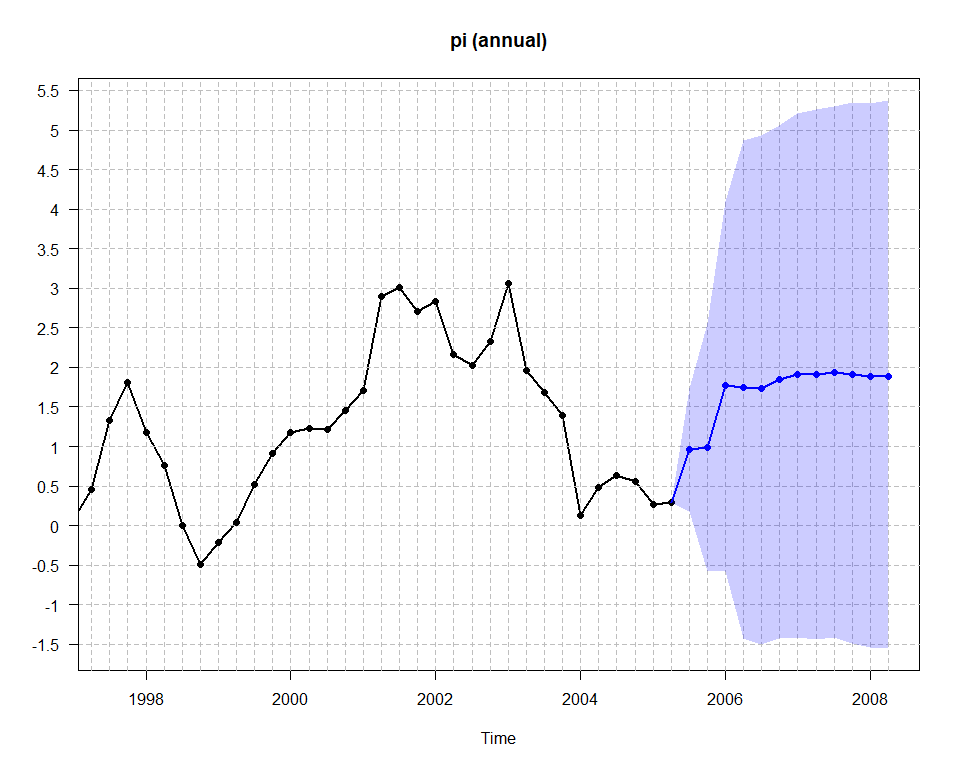
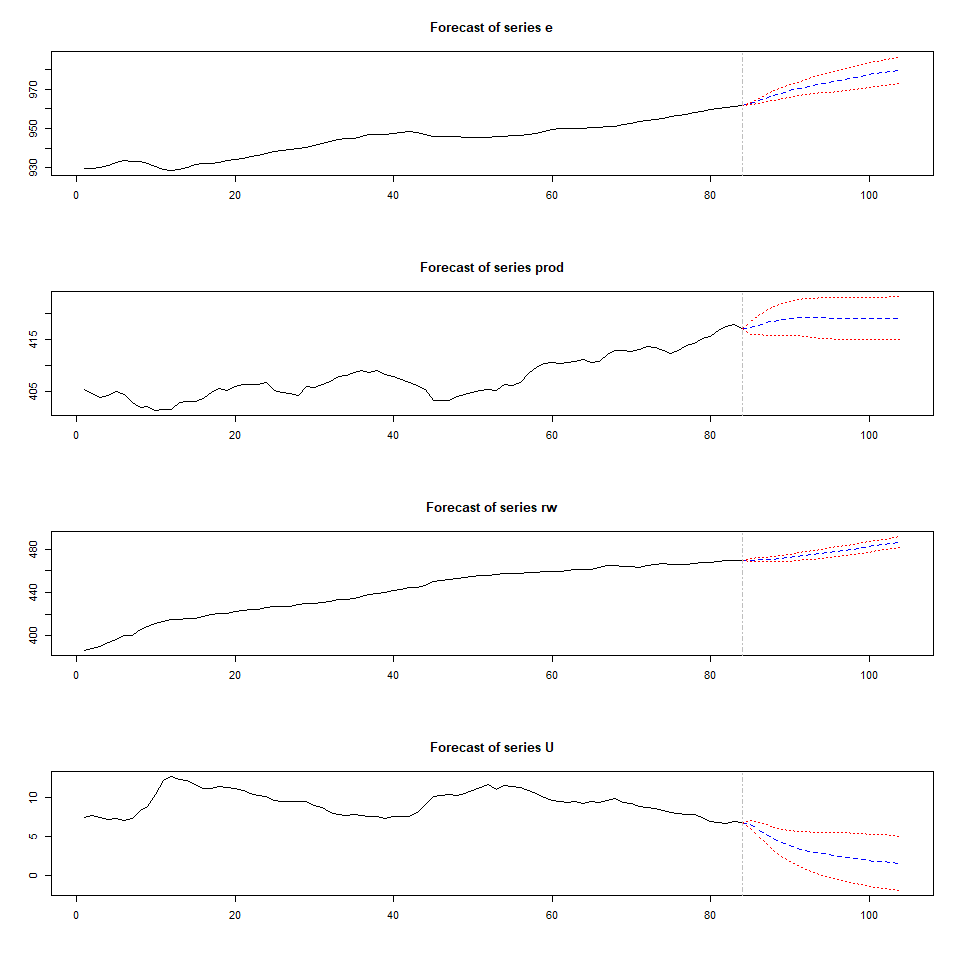
stuff

diff --git a/README.md b/README.md
@@ -89,10 +89,178 @@ dummy/trend variable if applicable), and $\underline{v}=m+2$.
 ``` r
 rm(list = ls())
 library(Karlsson2013inR)
+#> Loading required package: MASS
+#> Loading required package: LaplacesDemon
 devtools::load_all()
+#> Warning in readLines(f, n): incomplete final line found on
+#> 'C:/Users/markj/Documents/package/Karlsson2013inR/DESCRIPTION'
+#> Warning in readLines(f, n): incomplete final line found on
+#> 'C:/Users/markj/Documents/package/Karlsson2013inR/DESCRIPTION'
+#> Warning in readLines(dsc_path): incomplete final line found on
+#> 'C:/Users/markj/Documents/package/Karlsson2013inR/DESCRIPTION'
+#> Warning in readLines(file): incomplete final line found on
+#> 'C:/Users/markj/Documents/package/Karlsson2013inR/DESCRIPTION'
+#> Warning in readLines(f, n): incomplete final line found on
+#> 'C:/Users/markj/Documents/package/Karlsson2013inR/DESCRIPTION'
+#> Warning in readLines(dsc_path): incomplete final line found on
+#> 'C:/Users/markj/Documents/package/Karlsson2013inR/DESCRIPTION'
+#> Warning in readLines(file): incomplete final line found on
+#> 'C:/Users/markj/Documents/package/Karlsson2013inR/DESCRIPTION'
+#> ℹ Loading Karlsson2013inR
+#> Warning in readLines(dsc_path): incomplete final line found on
+#> 'C:/Users/markj/Documents/package/Karlsson2013inR/DESCRIPTION'
+#> Warning in readLines(dsc_path): incomplete final line found on
+#> 'C:/Users/markj/Documents/package/Karlsson2013inR/DESCRIPTION'
+#> Warning in readLines(file): incomplete final line found on
+#> 'C:/Users/markj/Documents/package/Karlsson2013inR/DESCRIPTION'
+#> Warning in readLines(f, n): incomplete final line found on
+#> 'C:/Users/markj/Documents/package/Karlsson2013inR/DESCRIPTION'
+#> Warning in readLines(f, n): incomplete final line found on
+#> 'C:/Users/markj/Documents/package/Karlsson2013inR/DESCRIPTION'
+#> Warning in readLines(dsc_path): incomplete final line found on
+#> 'C:/Users/markj/Documents/package/Karlsson2013inR/DESCRIPTION'
+#> Warning in readLines(file): incomplete final line found on
+#> 'C:/Users/markj/Documents/package/Karlsson2013inR/DESCRIPTION'
+#> Warning in readLines(f, n): incomplete final line found on
+#> 'C:/Users/markj/Documents/package/Karlsson2013inR/DESCRIPTION'
+#> Warning in readLines(dsc_path): incomplete final line found on
+#> 'C:/Users/markj/Documents/package/Karlsson2013inR/DESCRIPTION'
+#> Warning in readLines(file): incomplete final line found on
+#> 'C:/Users/markj/Documents/package/Karlsson2013inR/DESCRIPTION'
+#> Warning in readLines(f, n): incomplete final line found on
+#> 'C:/Users/markj/Documents/package/Karlsson2013inR/DESCRIPTION'
+#> Warning in readLines(f, n): incomplete final line found on
+#> 'C:/Users/markj/Documents/package/Karlsson2013inR/DESCRIPTION'
+#> Warning in readLines(dsc_path): incomplete final line found on
+#> 'C:/Users/markj/Documents/package/Karlsson2013inR/DESCRIPTION'
+#> Warning in readLines(file): incomplete final line found on
+#> 'C:/Users/markj/Documents/package/Karlsson2013inR/DESCRIPTION'
+#> Warning in readLines(f, n): incomplete final line found on
+#> 'C:/Users/markj/Documents/package/Karlsson2013inR/DESCRIPTION'
+#> Warning in readLines(f, n): incomplete final line found on
+#> 'C:/Users/markj/Documents/package/Karlsson2013inR/DESCRIPTION'
+#> Warning in readLines(f, n): incomplete final line found on
+#> 'C:/Users/markj/Documents/package/Karlsson2013inR/DESCRIPTION'
+#> Warning in readLines(dsc_path): incomplete final line found on
+#> 'C:/Users/markj/Documents/package/Karlsson2013inR/DESCRIPTION'
+#> Warning in readLines(file): incomplete final line found on
+#> 'C:/Users/markj/Documents/package/Karlsson2013inR/DESCRIPTION'
+#> Warning in readLines(f, n): incomplete final line found on
+#> 'C:/Users/markj/Documents/package/Karlsson2013inR/DESCRIPTION'
+#> Warning in readLines(dsc_path): incomplete final line found on
+#> 'C:/Users/markj/Documents/package/Karlsson2013inR/DESCRIPTION'
+#> Warning in readLines(file): incomplete final line found on
+#> 'C:/Users/markj/Documents/package/Karlsson2013inR/DESCRIPTION'
+#> Warning in readLines(f, n): incomplete final line found on
+#> 'C:/Users/markj/Documents/package/Karlsson2013inR/DESCRIPTION'
+#> Warning in readLines(dsc_path): incomplete final line found on
+#> 'C:/Users/markj/Documents/package/Karlsson2013inR/DESCRIPTION'
+#> Warning in readLines(file): incomplete final line found on
+#> 'C:/Users/markj/Documents/package/Karlsson2013inR/DESCRIPTION'
+#> Warning in readLines(f, n): incomplete final line found on
+#> 'C:/Users/markj/Documents/package/Karlsson2013inR/DESCRIPTION'
+#> Warning in readLines(f, n): incomplete final line found on
+#> 'C:/Users/markj/Documents/package/Karlsson2013inR/DESCRIPTION'
+#> Warning in readLines(dsc_path): incomplete final line found on
+#> 'C:/Users/markj/Documents/package/Karlsson2013inR/DESCRIPTION'
+#> Warning in readLines(file): incomplete final line found on
+#> 'C:/Users/markj/Documents/package/Karlsson2013inR/DESCRIPTION'
+#> Warning in readLines(f, n): incomplete final line found on
+#> 'C:/Users/markj/Documents/package/Karlsson2013inR/DESCRIPTION'
+#> Warning in readLines(f, n): incomplete final line found on
+#> 'C:/Users/markj/Documents/package/Karlsson2013inR/DESCRIPTION'
+#> Warning in readLines(f, n): incomplete final line found on
+#> 'C:/Users/markj/Documents/package/Karlsson2013inR/DESCRIPTION'
+#> Warning in readLines(f, n): incomplete final line found on
+#> 'C:/Users/markj/Documents/package/Karlsson2013inR/DESCRIPTION'
+#> Warning in readLines(dsc_path): incomplete final line found on
+#> 'C:/Users/markj/Documents/package/Karlsson2013inR/DESCRIPTION'
+#> Warning in readLines(file): incomplete final line found on
+#> 'C:/Users/markj/Documents/package/Karlsson2013inR/DESCRIPTION'
+#> Warning in readLines(f, n): incomplete final line found on
+#> 'C:/Users/markj/Documents/package/Karlsson2013inR/DESCRIPTION'
+#> Warning in readLines(f, n): incomplete final line found on
+#> 'C:/Users/markj/Documents/package/Karlsson2013inR/DESCRIPTION'
+#> Warning in readLines(f, n): incomplete final line found on
+#> 'C:/Users/markj/Documents/package/Karlsson2013inR/DESCRIPTION'
+#> Warning in readLines(f, n): incomplete final line found on
+#> 'C:/Users/markj/Documents/package/Karlsson2013inR/DESCRIPTION'
+#> Warning in readLines(dsc_path): incomplete final line found on
+#> 'C:/Users/markj/Documents/package/Karlsson2013inR/DESCRIPTION'
+#> Warning in readLines(file): incomplete final line found on
+#> 'C:/Users/markj/Documents/package/Karlsson2013inR/DESCRIPTION'
+#> Warning in readLines(f, n): incomplete final line found on
+#> 'C:/Users/markj/Documents/package/Karlsson2013inR/DESCRIPTION'
+#> Warning in readLines(dsc_path): incomplete final line found on
+#> 'C:/Users/markj/Documents/package/Karlsson2013inR/DESCRIPTION'
+#> Warning in readLines(file): incomplete final line found on
+#> 'C:/Users/markj/Documents/package/Karlsson2013inR/DESCRIPTION'
+#> Warning in readLines(f, n): incomplete final line found on
+#> 'C:/Users/markj/Documents/package/Karlsson2013inR/DESCRIPTION'
+#> Warning in readLines(f, n): incomplete final line found on
+#> 'C:/Users/markj/Documents/package/Karlsson2013inR/DESCRIPTION'
+#> Warning in readLines(dsc_path): incomplete final line found on
+#> 'C:/Users/markj/Documents/package/Karlsson2013inR/DESCRIPTION'
+#> Warning in readLines(file): incomplete final line found on
+#> 'C:/Users/markj/Documents/package/Karlsson2013inR/DESCRIPTION'
+#> Warning in readLines(f, n): incomplete final line found on
+#> 'C:/Users/markj/Documents/package/Karlsson2013inR/DESCRIPTION'
+#> Warning in readLines(f, n): incomplete final line found on
+#> 'C:/Users/markj/Documents/package/Karlsson2013inR/DESCRIPTION'
+#> Warning in readLines(dsc_path): incomplete final line found on
+#> 'C:/Users/markj/Documents/package/Karlsson2013inR/DESCRIPTION'
+#> Warning in readLines(file): incomplete final line found on
+#> 'C:/Users/markj/Documents/package/Karlsson2013inR/DESCRIPTION'
+#> Warning in readLines(f, n): incomplete final line found on
+#> 'C:/Users/markj/Documents/package/Karlsson2013inR/DESCRIPTION'
+#> Warning in readLines(f, n): incomplete final line found on
+#> 'C:/Users/markj/Documents/package/Karlsson2013inR/DESCRIPTION'
+#> Warning in readLines(dsc_path): incomplete final line found on
+#> 'C:/Users/markj/Documents/package/Karlsson2013inR/DESCRIPTION'
+#> Warning in readLines(file): incomplete final line found on
+#> 'C:/Users/markj/Documents/package/Karlsson2013inR/DESCRIPTION'
+#> Warning in readLines(f, n): incomplete final line found on
+#> 'C:/Users/markj/Documents/package/Karlsson2013inR/DESCRIPTION'
+#> Warning in readLines(f, n): incomplete final line found on
+#> 'C:/Users/markj/Documents/package/Karlsson2013inR/DESCRIPTION'
+#> Warning in readLines(f, n): incomplete final line found on
+#> 'C:/Users/markj/Documents/package/Karlsson2013inR/DESCRIPTION'
+#> Warning in readLines(f, n): incomplete final line found on
+#> 'C:/Users/markj/Documents/package/Karlsson2013inR/DESCRIPTION'
+#> Warning in readLines(f, n): incomplete final line found on
+#> 'C:/Users/markj/Documents/package/Karlsson2013inR/DESCRIPTION'
+#> Warning in readLines(dsc_path): incomplete final line found on
+#> 'C:/Users/markj/Documents/package/Karlsson2013inR/DESCRIPTION'
+#> Warning in readLines(file): incomplete final line found on
+#> 'C:/Users/markj/Documents/package/Karlsson2013inR/DESCRIPTION'
+#> Warning in readLines(f, n): incomplete final line found on
+#> 'C:/Users/markj/Documents/package/Karlsson2013inR/DESCRIPTION'
+#> Warning in readLines(f, n): incomplete final line found on
+#> 'C:/Users/markj/Documents/package/Karlsson2013inR/DESCRIPTION'
+#> Warning in readLines(dsc_path): incomplete final line found on
+#> 'C:/Users/markj/Documents/package/Karlsson2013inR/DESCRIPTION'
+#> Warning in readLines(file): incomplete final line found on
+#> 'C:/Users/markj/Documents/package/Karlsson2013inR/DESCRIPTION'
+#> Warning in readLines(f, n): incomplete final line found on
+#> 'C:/Users/markj/Documents/package/Karlsson2013inR/DESCRIPTION'
+#> Warning in readLines(f, n): incomplete final line found on
+#> 'C:/Users/markj/Documents/package/Karlsson2013inR/DESCRIPTION'
+#> Warning in readLines(dsc_path): incomplete final line found on
+#> 'C:/Users/markj/Documents/package/Karlsson2013inR/DESCRIPTION'
+#> Warning in readLines(file): incomplete final line found on
+#> 'C:/Users/markj/Documents/package/Karlsson2013inR/DESCRIPTION'
+#> Warning in readLines(f, n): incomplete final line found on
+#> 'C:/Users/markj/Documents/package/Karlsson2013inR/DESCRIPTION'
+#> Warning in readLines(f, n): incomplete final line found on
+#> 'C:/Users/markj/Documents/package/Karlsson2013inR/DESCRIPTION'
 data("Canada", package="vars")
 yt <- Canada
 plot.ts(yt)
+```
+
+<img src="man/figures/README-unnamed-chunk-3-1.png" width="100%" />
+
+``` r
 
 pi_1 <- 0.2
 pi_2 <- 0.5
@@ -133,26 +301,85 @@ bvar_obj2 <- priors(bvar_obj2,
                     fol_pm,
                     Jeffrey=FALSE)
 
+p <- bvar_obj1$setup$p
+m <- bvar_obj1$setup$m
+d <- bvar_obj1$setup$d
+restriction_matrix <- matrix(1, (m*p)+d, m)
+
+restriction_matrix[m*p+2, 4] <- 0 #no trend term for unemployment
+
+bvar_obj1 <- restrict_Gamma(bvar_obj1, restriction_matrix)
+bvar_obj2 <- restrict_Gamma(bvar_obj2, restriction_matrix)
+
+
 bvar_obj1$predict$H <- 20
 bvar_obj1$predict$x_pred <- cbind(rep(1, 20), (nrow(yt)+1):(nrow(yt)+20))
 bvar_obj2$predict$H <- 20
 bvar_obj2$predict$x_pred <- cbind(rep(1, 20), (nrow(yt)+1):(nrow(yt)+20))
 
 bvar_obj1 <- fit(bvar_obj1,
-                iter = 400,
-                warmup = 200)
+                iter = 500,
+                warmup = 250)
 
 bvar_obj2 <- fit(bvar_obj2,
-                iter = 400,
-                warmup = 200)
+                iter = 500,
+                warmup = 250)
 
 round(bvar_obj1$fit$Algorithm2$Gamma_posterior_mean,2)
+#>        [,1]  [,2]  [,3]  [,4]
+#>  [1,]  1.15  0.07  0.00 -0.10
+#>  [2,]  0.09  1.02 -0.13 -0.04
+#>  [3,] -0.03 -0.05  0.86  0.00
+#>  [4,] -0.04  0.10  0.04  0.98
+#>  [5,] -0.17 -0.01  0.08  0.03
+#>  [6,]  0.00 -0.06 -0.03  0.00
+#>  [7,]  0.01 -0.02 -0.04  0.00
+#>  [8,]  0.05  0.09 -0.08 -0.04
+#>  [9,] -0.03  0.00  0.03  0.05
+#> [10,]  0.00 -0.02  0.01  0.00
+#> [11,]  0.01  0.00  0.03  0.00
+#> [12,]  0.04  0.05 -0.02  0.00
+#> [13,]  0.02  0.01  0.01  0.03
+#> [14,]  0.00 -0.02  0.00  0.00
+#> [15,]  0.01  0.01  0.05  0.00
+#> [16,]  0.01  0.02  0.00 -0.01
+#> [17,] -0.01  2.99  0.71  3.06
+#> [18,]  0.00  0.06  0.05  0.00
 round(bvar_obj1$fit$Algorithm2$Psi_posterior_mean,2)
+#>       [,1]  [,2]  [,3]  [,4]
+#> [1,]  0.19  0.01 -0.10 -0.12
+#> [2,]  0.01  0.45  0.00 -0.01
+#> [3,] -0.10  0.00  0.61  0.08
+#> [4,] -0.12 -0.01  0.08  0.12
 
 round(bvar_obj2$fit$Algorithm2$Gamma_posterior_mean,2)
+#>        [,1]  [,2]  [,3]  [,4]
+#>  [1,]  1.16  0.08  0.00 -0.10
+#>  [2,]  0.09  1.03 -0.13 -0.04
+#>  [3,] -0.03 -0.05  0.87  0.00
+#>  [4,] -0.04  0.08  0.02  0.98
+#>  [5,] -0.19 -0.02  0.08  0.04
+#>  [6,]  0.00 -0.07 -0.04  0.00
+#>  [7,]  0.01 -0.02 -0.05  0.01
+#>  [8,]  0.05  0.11 -0.07 -0.05
+#>  [9,] -0.03  0.00  0.02  0.05
+#> [10,] -0.01 -0.03  0.01  0.00
+#> [11,]  0.01  0.00  0.03 -0.01
+#> [12,]  0.04  0.05 -0.01  0.00
+#> [13,]  0.02  0.01  0.01  0.03
+#> [14,]  0.00 -0.02  0.00  0.00
+#> [15,]  0.01  0.01  0.06  0.00
+#> [16,]  0.01  0.02  0.00 -0.01
+#> [17,]  0.81  5.56  2.21  2.21
+#> [18,]  0.01  0.06  0.04  0.00
 round(bvar_obj2$fit$Algorithm2$Psi_posterior_mean,2)
+#>       [,1]  [,2]  [,3]  [,4]
+#> [1,]  0.17  0.01 -0.09 -0.11
+#> [2,]  0.01  0.41  0.00 -0.01
+#> [3,] -0.09  0.00  0.57  0.07
+#> [4,] -0.11 -0.01  0.07  0.11
 
-par(mfrow=c(4,2))
+par(mfcol = c(4, 2))
 fcst1 <- forecast(bvar_obj1,
                  ci = 0.68,
                  fcst_type = "median",
@@ -162,10 +389,17 @@ fcst2 <- forecast(bvar_obj2,
                  ci = 0.68,
                  fcst_type = "median",
                  show_all = TRUE)
+```
 
-m1 <- vars::VAR(yt, p=4, type="both")
+<img src="man/figures/README-unnamed-chunk-3-2.png" width="100%" />
+
+``` r
+
+m1 <- vars::VAR(yt, p=4, type="both") #constant and trend
 plot(predict(m1, n.ahead=20))
 ```
+
+<img src="man/figures/README-unnamed-chunk-3-3.png" width="100%" />
 
 ## Algorithm 4 (steady-state)
 
@@ -225,7 +459,7 @@ $$
 
 Here $\pi (\Gamma_d)$ is based on the Minnesota prior with overall
 tightness $\pi_1$, cross-equation tightness $\pi_2$ and lag decay rate
-$\pi_3$. Now $\pi (\Lambda)$ is really the core of the steady-state
+$\pi_3$. Note that $\pi (\Lambda)$ is the core of the steady-state
 model, where we specify our prior beliefs about the location and scale
 of the steady-state parameters. For $\Psi$ we use Jeffreys’ prior
 